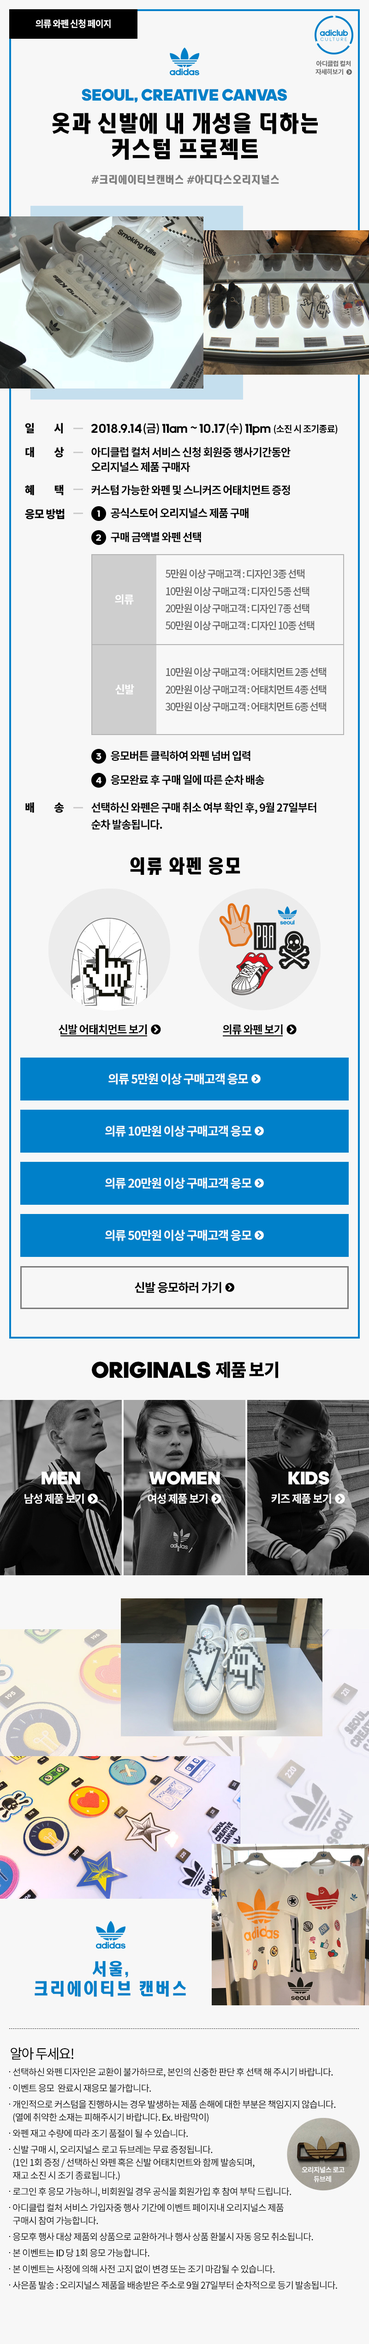
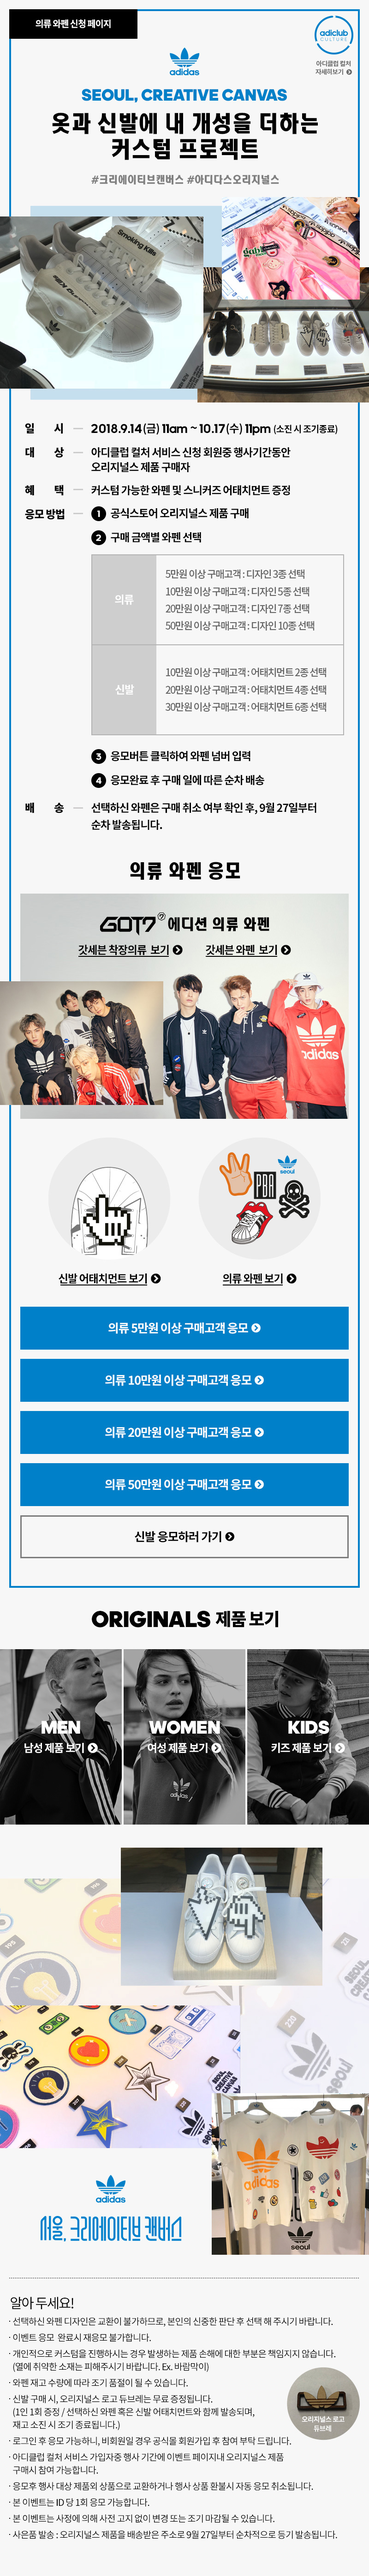
와펜 이벤 업댓

diff --git a/app/html/adidas/campaign/5645/index.html b/app/html/adidas/campaign/5645/index.html
@@ -446,21 +446,27 @@
 
                 <!-- 작업영역 -->
                 <div style="position:relative" class="adiclub_event">
-                    <img src="http://imagem.adidas.co.kr/upload/campaign/adidas/5645/m/1809_a_seoul_cloth_MO.jpg" alt="" style="width:100%;">
-					<a href="http://m.adidas.co.kr/MO/Club/adiclubculture.action" style="display:inline-block;position:absolute;top:0%;right:0;width:18%;height:3.8%;text-indent:-5000px;" onfocus="this.blur();">아디클럽 컬쳐 자세히보기</a>
-					
-                    <a href="http://shop.adidas.co.kr/upload/campaign/adidas/5645/m/popup_shoes.html" style="display:inline-block;position:absolute;top:43.4%;left:0;width:50%;height:1%;text-indent:-5000px;" onfocus="this.blur();" target="_blank">신발 어태치먼트 보기</a>
-					<a href="http://shop.adidas.co.kr/upload/campaign/adidas/5645/m/popup_clothes.html" style="display:inline-block;position:absolute;top:43.4%;right:0;width:50%;height:1%;text-indent:-5000px;" onfocus="this.blur();" target="_blank">의류 와펜 보기</a>
-					
-                    <a href="#" style="display:inline-block;position:absolute;top:45.1%;left:5%;width:90%;height:1.8%;text-indent:-5000px;" onfocus="this.blur();">의류 5만원 이상 구매고객 응모</a>
-                    <a href="#" style="display:inline-block;position:absolute;top:47.4%;left:5%;width:90%;height:1.8%;text-indent:-5000px;" onfocus="this.blur();">의류 10만원 이상 구매고객 응모</a>
-                    <a href="#" style="display:inline-block;position:absolute;top:49.6%;left:5%;width:90%;height:1.8%;text-indent:-5000px;" onfocus="this.blur();">의류 20만원 이상 구매고객 응모</a>
-                    <a href="#" style="display:inline-block;position:absolute;top:51.8%;left:5%;width:90%;height:1.8%;text-indent:-5000px;" onfocus="this.blur();">의류 50만원 이상 구매고객 응모</a>
-					<a href="http://m.adidas.co.kr/MO/Club/clubCampainView.action?event_id=5665" style="display:inline-block;position:absolute;top:54%;left:5%;width:90%;height:1.8%;text-indent:-5000px;" onfocus="this.blur();">신발 응모하러 가기</a>
+                    <!-- 180917 -->
+                    <img src="http://imagem.adidas.co.kr/upload/campaign/adidas/5645/180919/m/1809_a_seoul_cloth_MO.jpg" alt="" style="width:100%;">
+                    <a href="http://m.adidas.co.kr/MO/Club/adiclubculture.action" style="display:inline-block;position:absolute;top:0%;right:0;width:18%;height:3.8%;text-indent:-5000px;" onfocus="this.blur();">아디클럽 컬쳐 자세히보기</a>
 
-					<a href="http://m.adidas.co.kr/MO/Product/brandsPrdList.action?ctgr_cd=01005001" style="display:inline-block;position:absolute;top:59.7%;left:0;width:33%;height:7.5%;text-indent:-5000px;" onfocus="this.blur();">남성 제품 보기</a>
-					<a href="http://m.adidas.co.kr/MO/Product/brandsPrdList.action?ctgr_cd=01005002" style="display:inline-block;position:absolute;top:59.7%;left:33%;width:33%;height:7.5%;text-indent:-5000px;" onfocus="this.blur();">여성 제품 보기</a>
-					<a href="http://m.adidas.co.kr/MO/Product/brandsPrdList.action?ctgr_cd=01005003" style="display:inline-block;position:absolute;top:59.7%;right:0;width:33%;height:7.5%;text-indent:-5000px;" onfocus="this.blur();">키즈 제품 보기</a>					
+                    <a href="http://m.adidas.co.kr/MO/Promotion/landingPage.action?pageNo=691&term=1" style="display:inline-block;position:absolute;top:35%;left:0;width:50%;height:2.8%;text-indent:-5000px;" onfocus="this.blur();">갓세븐착장의류</a>
+					<a href="http://shop.adidas.co.kr/upload/campaign/adidas/5645/180919/m/popup_clothes.html" style="display:inline-block;position:absolute;top:35%;right:0;width:50%;height:2.8%;text-indent:-5000px;" onfocus="this.blur();" target="_blank">갓세븐와펜보기</a>
+
+                    <a href="http://shop.adidas.co.kr/upload/campaign/adidas/5645/m/popup_shoes.html" style="display:inline-block;position:absolute;top:49.2%;left:0;width:50%;height:1%;text-indent:-5000px;" onfocus="this.blur();" target="_blank">신발 어태치먼트 보기</a>
+					<a href="http://shop.adidas.co.kr/upload/campaign/adidas/5645/180919/m/popup_clothes.html" style="display:inline-block;position:absolute;top:49.2%;right:0;width:50%;height:1%;text-indent:-5000px;" onfocus="this.blur();" target="_blank">의류 와펜 보기</a>
+
+                    <a href="javascript:eventJoin('1')" style="display:inline-block;position:absolute;top:50.6%;left:5%;width:90%;height:1.8%;text-indent:-5000px;" onfocus="this.blur();">의류 5만원 이상 구매고객 응모</a>
+                    <a href="javascript:eventJoin('2')" style="display:inline-block;position:absolute;top:52.8%;left:5%;width:90%;height:1.8%;text-indent:-5000px;" onfocus="this.blur();">의류 10만원 이상 구매고객 응모</a>
+                    <a href="javascript:eventJoin('3')" style="display:inline-block;position:absolute;top:54.6%;left:5%;width:90%;height:1.8%;text-indent:-5000px;" onfocus="this.blur();">의류 20만원 이상 구매고객 응모</a>
+                    <a href="javascript:eventJoin('4')" style="display:inline-block;position:absolute;top:56.8%;left:5%;width:90%;height:1.8%;text-indent:-5000px;" onfocus="this.blur();">의류 50만원 이상 구매고객 응모</a>
+					<a href="http://m.adidas.co.kr/MO/Club/clubCampainView.action?event_id=5665" style="display:inline-block;position:absolute;top:58.9%;left:5%;width:90%;height:1.8%;text-indent:-5000px;" onfocus="this.blur();">신발 응모하러 가기</a>
+
+					<a href="http://m.adidas.co.kr/MO/Product/brandsPrdList.action?ctgr_cd=01005001" style="display:inline-block;position:absolute;top:63.7%;left:0;width:33%;height:7.5%;text-indent:-5000px;" onfocus="this.blur();">남성 제품 보기</a>
+					<a href="http://m.adidas.co.kr/MO/Product/brandsPrdList.action?ctgr_cd=01005002" style="display:inline-block;position:absolute;top:63.7%;left:33%;width:33%;height:7.5%;text-indent:-5000px;" onfocus="this.blur();">여성 제품 보기</a>
+					<a href="http://m.adidas.co.kr/MO/Product/brandsPrdList.action?ctgr_cd=01005003" style="display:inline-block;position:absolute;top:63.7%;right:0;width:33%;height:7.5%;text-indent:-5000px;" onfocus="this.blur();">키즈 제품 보기</a>
+                    <!-- 180917 end-->
+
                 </div>
 				<!-- 작업영역 끝 -->
 

diff --git a/app/html/adidas/campaign/5645/popup_clothes.html b/app/html/adidas/campaign/5645/popup_clothes.html
@@ -8,12 +8,12 @@
 	<link rel="apple-touch-icon-precomposed" href="//image.adidas.co.kr/images/adidas/icon_114.png" />
 	<link rel="stylesheet" type="text/css" href="//image.adidas.co.kr/css/adidas/adidas_r.css" />
 	<script type="text/javascript" src="//image.adidas.co.kr/js/jquery/jquery-1.4.2.js"></script>
-	<script type="text/javascript" src="//image.adidas.co.kr/js/jquery/ui/jquery-ui-1.7.2.custom.min.js"></script>	
+	<script type="text/javascript" src="//image.adidas.co.kr/js/jquery/ui/jquery-ui-1.7.2.custom.min.js"></script>
 </head>
 <body>
 
 	<div id="pop">
-		<img src="http://shop.adidas.co.kr/upload/campaign/adidas/5645/m/1809_a_seoul_cloth_popup_MO.jpg" width="100%" alt="">
+		<img src="http://shop.adidas.co.kr/upload/campaign/adidas/5645/180919/m/1809_a_seoul_cloth_popup_MO.jpg" width="100%" alt="">
 		<a href="#" onclick="javascript:window.open('','_self').close();" style="display:inline-block;position:absolute;top:0;right:0;width: 12%;height: 123px;"></a>
 	</div>
 
